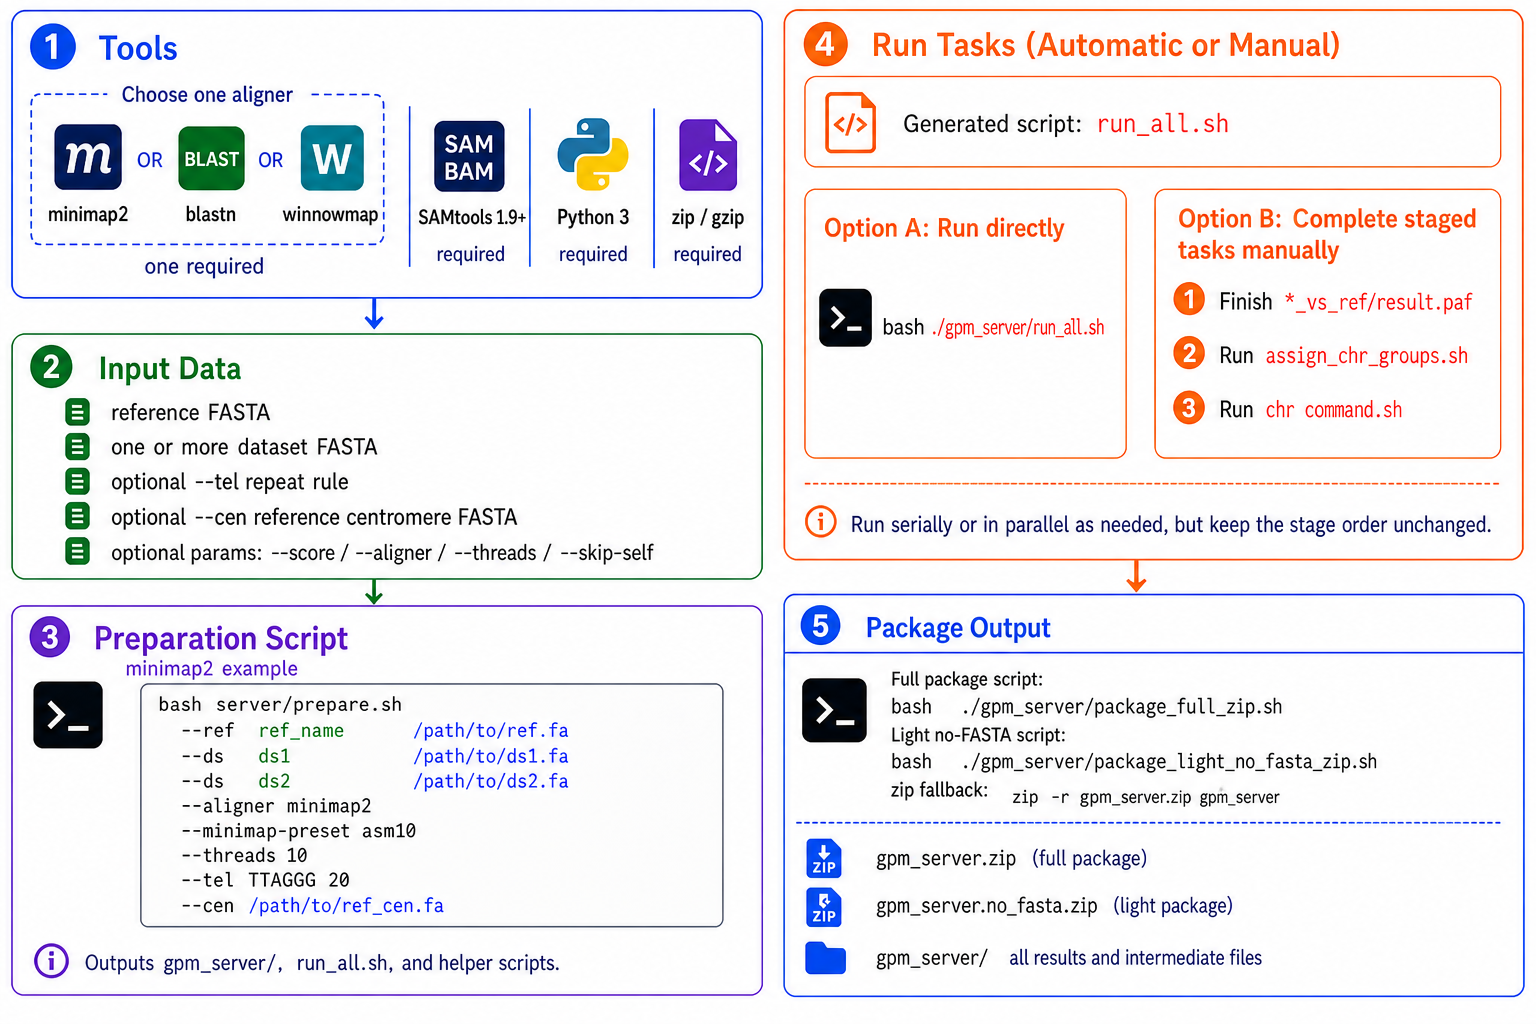
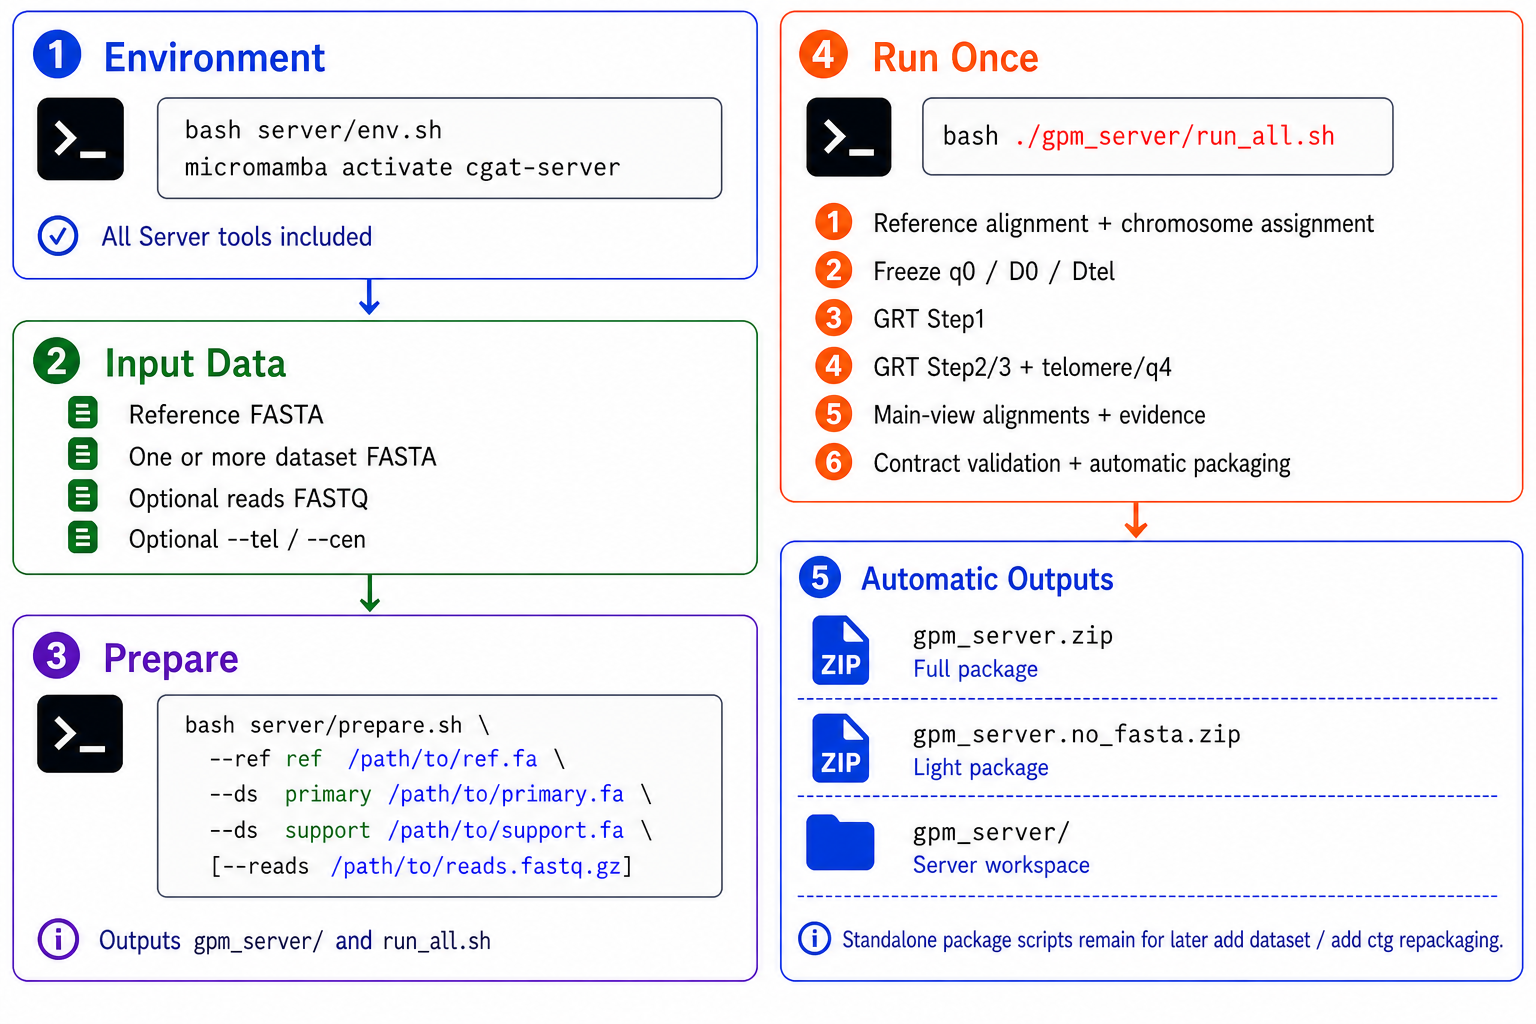
feat(server): automate delivery packaging

Changed region(s): [[0.0, 0.0, 1.0, 0.9688], [0.9688, 0.7812, 1.0, 0.8125], [0.9688, 0.625, 1.0, 0.6562]]

diff --git a/GPM2.0/README.md b/GPM2.0/README.md
@@ -114,13 +114,18 @@ Do not provide paths for the GRT executables. The workflow automatically calls `
 - `--winnowmap-kmer`: meryl k-mer size, default `19`
 - `--winnowmap-repeat-fraction`: high-frequency k-mer cutoff, default `0.9998`
 
-### Run the batch alignment jobs
+### Run the complete Server workflow
 
 ```bash
 bash ./gpm_server/run_all.sh
 ```
 
-If needed, you can also use the printed alignment commands to choose a manual execution strategy, such as serial or parallel execution.
+This one command completes the staged computation and automatically creates both delivery archives next to `gpm_server/`:
+
+- `gpm_server.zip`: full package with the FASTA payload required for client-side final path FASTA export
+- `gpm_server.no_fasta.zip`: light package without `.fa` / `.fasta` payloads
+
+No separate packaging command is needed for the initial workflow. If needed, you can instead execute the staged commands printed by `prepare.sh` manually, including the final full-package and light-package commands.
 
 Execution order is strict:
 
@@ -132,8 +137,10 @@ Execution order is strict:
 6. run telomere recovery and finalize q4 plus the traceable Final Path
 7. run chromosome-local main-view alignments
 8. finalize GRT source cards/display evidence and validate the complete package contract
+9. validate again and atomically create `gpm_server.zip`
+10. validate again and atomically create `gpm_server.no_fasta.zip`
 
-`run_all.sh` keeps this staged order, stops on program errors, and resumes only from checkpoints whose input, parameter, tool, and output hashes still match.
+`run_all.sh` keeps this staged order, stops on program or packaging errors, and resumes computation only from checkpoints whose input, parameter, tool, and output hashes still match. Each packager builds a fresh temporary archive and replaces the final zip only after success, so reruns do not retain removed entries or overwrite a valid archive with a partial result.
 
 ### Add one dataset to an existing server project
 
@@ -161,9 +168,9 @@ Because the script also merges the new dataset into the server-side `gpm_server/
 bash ./gpm_server/package_full_zip.sh
 ```
 
-### Package the server delivery bundle
+### Re-package after later Server workspace changes
 
-Use the packaging scripts generated by `server/prepare.sh`; both run the executable GRT contract validator before creating a zip:
+The initial `run_all.sh` already creates both archives. Use the generated standalone packaging scripts only when you need to rebuild delivery archives after a later Server workspace change such as `add_dataset.sh` or `add_ctg.sh`; both run the executable GRT contract validator before creating a zip:
 
 ```bash
 # Full delivery bundle: includes .fa/.fasta and supports client-side final path FASTA export

diff --git a/GPM2.0/README_zh.md b/GPM2.0/README_zh.md
@@ -114,13 +114,18 @@ bash server/prepare.sh \
 - `--winnowmap-kmer`：meryl k-mer 大小，默认 `19`
 - `--winnowmap-repeat-fraction`：高频 k-mer 阈值，默认 `0.9998`
 
-### 执行批量比对任务
+### 执行完整 Server 流程
 
 ```bash
 bash ./gpm_server/run_all.sh
 ```
 
-如有需要，也可以根据脚本打印的命令自行安排执行方式，例如串行或并行。
+这一条命令会完成全部分阶段计算，并在 `gpm_server/` 同级目录自动生成两个交付包：
+
+- `gpm_server.zip`：完整包，包含客户端导出 final path FASTA 所需的 FASTA 载荷
+- `gpm_server.no_fasta.zip`：轻量包，不包含 `.fa` / `.fasta` 载荷
+
+初始流程无需再单独执行打包命令。如需手工安排阶段，也可以依次执行 `prepare.sh` 打印的命令，但必须包含最后的完整包与轻量包命令。
 
 执行顺序必须固定：
 
@@ -132,8 +137,10 @@ bash ./gpm_server/run_all.sh
 6. 执行端粒恢复并生成 q4 与可追溯 Final Path
 7. 执行染色体局部主视图比对
 8. 完成 GRT source card/展示证据并校验完整包契约
+9. 再次校验并原子生成 `gpm_server.zip`
+10. 再次校验并原子生成 `gpm_server.no_fasta.zip`
 
-`run_all.sh` 会严格保持该顺序，遇到程序错误立即停止，并且只复用输入、参数、工具和输出 hash 均仍匹配的检查点。
+`run_all.sh` 会严格保持该顺序，遇到程序或打包错误立即停止，并且只复用输入、参数、工具和输出 hash 均仍匹配的计算检查点。每个打包脚本都会先生成全新的临时 zip，成功后才替换最终文件，因此重跑不会保留已经删除的旧条目，也不会用失败的半成品覆盖有效交付包。
 
 ### 向已有服务端项目追加一个 dataset
 
@@ -161,9 +168,9 @@ bash ./gpm_server/add_dataset.sh --ds ds4_name /path/to/ds4.fa -o /path/to/add_d
 bash ./gpm_server/package_full_zip.sh
 ```
 
-### 打包服务端交付文件
+### Server 工作目录后续变化后的重新打包
 
-请使用 `server/prepare.sh` 生成的打包脚本；两种脚本都会在创建 zip 前执行 GRT 可执行契约校验器：
+初始 `run_all.sh` 已经自动生成两种交付包。只有在后续执行 `add_dataset.sh`、`add_ctg.sh` 等操作并需要重建交付包时，才需要使用生成的独立打包脚本；两种脚本都会在创建 zip 前执行 GRT 可执行契约校验器：
 
 ```bash
 # 完整交付包：包含 .fa/.fasta，可在客户端导出 final path FASTA
